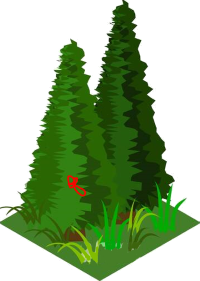
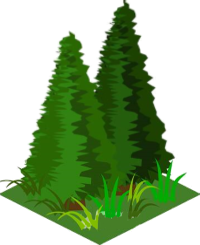
Goats poop; fertilised ground can grow saplings

diff --git a/main.py b/main.py
@@ -159,7 +159,8 @@ class Game:
         self.anim = Animator(self.animated)
 
         self.effects = {'water': WateredEffect(self, 'water', WATERED_EFFECT_P),
-                        'pollinate': PollinateEffect(self, 'pollinate', POLLINATE_EFFECT_P)}
+                        'pollinate': PollinateEffect(self, 'pollinate', POLLINATE_EFFECT_P),
+                        'fertile': FertileEffect(self, 'fertile', FERTILE_EFFECT_P)}
 
         # Set up UI now we have player etc.
         self.dialogs = {'spells': SpellDialog(100, 50, 400, 300, self.screen, self),
@@ -167,7 +168,9 @@ class Game:
 
         self.spells = {'bolt': (self.magic_missile, 0.25),
                        'well': (self.dig_dirt, 2),
-                       'hive': (self.build_hive, 3)}
+                       'hive': (self.build_hive, 3),
+                       'compost': (self.fertilise, 1),
+                       'sapling': (self.plant_tree, 2)}
 
         self.change_mode()
 
@@ -423,6 +426,10 @@ class Game:
 
         self.map.add_sprite(col, row, wall_sprite)
 
+    def add_item(self, col, row, item_type):
+        grass = Item(self, col, row, item_types[item_type])
+        self.ordered_sprites.append(grass)
+
     def sort_sprites(self):
         self.ordered_sprites.sort(key=lambda s: s.pos.x + s.pos.y + ((TILESIZE*2) if isinstance(s, Mob) or isinstance(s, Bullet) else 0))
 
@@ -466,8 +473,7 @@ class Game:
             print(f"Cut grass at {x}, {y}")
             self.killing(target_sprite)
             self.add_terrain(x, y, terrain_types[TerrainTypes.shortgrass])
-            grass = Item(self, x, y, item_types[ItemTypes.grass])
-            self.ordered_sprites.append(grass)
+            self.add_item(x, y, ItemTypes.grass)
 
     def missile_hit_mob(self, x, y):
         target_pos = vec(((x + 0.5) * TILESIZE), ((y + 0.5) * TILESIZE))
@@ -487,7 +493,7 @@ class Game:
 
 
 
-    # Spell effects
+    # Spell effects: must take tile co-ords as arguments
 
     def magic_missile(self, x, y):
         target_pos = vec((x + 0.5) * TILESIZE, (y + 0.5) * TILESIZE)
@@ -498,7 +504,7 @@ class Game:
 
     def dig_dirt(self, x, y):
         target_sprite = self.map.get_sprite_at(x, y)
-        if target_sprite.terrain_type.name == TerrainTypes.dirt:
+        if target_sprite.terrain_type.name in [TerrainTypes.dirt, TerrainTypes.shortgrass, TerrainTypes.longgrass]:
             self.killing(target_sprite)
             self.add_terrain(x, y, terrain_types[TerrainTypes.well])
             # Add effect
@@ -519,7 +525,17 @@ class Game:
             # Add effect
             self.map.add_effect_circle(x, y, POLLINATE_EFFECT_R, 'pollinate')
 
+    def fertilise(self, x, y):
+        target_sprite = self.map.get_sprite_at(x, y)
+        if target_sprite.terrain_type.name in [TerrainTypes.dirt, TerrainTypes.shortgrass, TerrainTypes.longgrass]:
+            self.map.add_effect(x, y, 'fertile')
 
+    def plant_tree(self, x, y):
+        target_sprite = self.map.get_sprite_at(x, y)
+        if target_sprite.terrain_type.name in [TerrainTypes.dirt, TerrainTypes.shortgrass, TerrainTypes.longgrass]:
+            if 'fertile' in self.map.get_effects(x, y):
+                self.killing(target_sprite)
+                self.add_terrain(x, y, terrain_types[TerrainTypes.sapling])
 
 
 

diff --git a/controlcomponent.py b/controlcomponent.py
@@ -1,5 +1,6 @@
 from settings import *
 from sprites import TerrainTypes
+from item import ItemTypes
 import pygame as py
 from random import uniform
 from map import tile_from_vec
@@ -62,24 +63,27 @@ class GrazerControlComponent(ControlComponent):
         self.hunt_radius = GOAT_VISION_DISTACE
         self.saw_food_tick = -1
         self.reached_food_tick = -1  # When did we get to the food?
+        self.poop_tick = pg.time.get_ticks()
 
 
     def get_control(self):
         now = pg.time.get_ticks()
+        cx = int(self.mob.pos.x // TILESIZE)
+        cy = int(self.mob.pos.y // TILESIZE)
 
         if self.reached_food_tick > 0 and now - self.reached_food_tick > GOAT_EAT_TIME:
             self.game.eat_grass(self.target_square.tile_x, self.target_square.tile_y)
             self.target_square = None
             self.reached_food_tick = -1
 
+        if now - self.poop_tick > GOAT_POOP_FREQ:
+            self.game.add_item(cx, cy, ItemTypes.poop)
+            self.poop_tick = now
+
         if self.target_square is None:
             if now - self.tick > GOAT_ATTENTION_SPAN:
                 self.tick = now
                 # Find a food square
-                # Look in local 9x9 square
-                cx = int(self.mob.pos.x // TILESIZE)
-                cy = int(self.mob.pos.y // TILESIZE)
-
                 # Ask the map for a list of sprites within our hunt radius
                 tiles = self.game.map.get_tile_circle(cx, cy, self.hunt_radius, 'terrain')
 

diff --git a/dialog.py b/dialog.py
@@ -104,14 +104,20 @@ class SpellDialog(Dialog):
         boltbutton = Button(30, 30, 90, 90, self.surf, 'bolticon.png')
         wellbutton = Button(130, 30, 90, 90, self.surf, 'wellicon.png')
         hivebutton = Button(230, 30, 90, 90, self.surf, 'hiveicon.png')
+        fertilisebutton = Button(330, 30, 90, 90, self.surf, 'poopItem.png')
+        planttreebutton = Button(30, 130, 90, 90, self.surf, 'saplingTile.png')
 
         boltbutton.click_callback = (lambda: self.game.set_spell('bolt'))
         wellbutton.click_callback = (lambda: self.game.set_spell('well'))
         hivebutton.click_callback = (lambda: self.game.set_spell('hive'))
+        fertilisebutton.click_callback = (lambda: self.game.set_spell('compost'))
+        planttreebutton.click_callback = (lambda: self.game.set_spell('sapling'))
 
         self.elements.append(boltbutton)
         self.elements.append(wellbutton)
         self.elements.append(hivebutton)
+        self.elements.append(fertilisebutton)
+        self.elements.append(planttreebutton)
 
         self.update()
 

diff --git a/terrain.py b/terrain.py
@@ -9,6 +9,7 @@ class TerrainTypes(Enum):
     well = 6
     flowers = 7
     hive = 8
+    sapling = 9
 
 class Terrain:
     def __init__(self, name, obstacle, imgpath, isotiles):
@@ -27,6 +28,7 @@ terrain_types = {
     TerrainTypes.shortgrass: Terrain(TerrainTypes.shortgrass, False, 'grassTile.png', ['isoshortgrassTile.png']),
     TerrainTypes.longgrass: Terrain(TerrainTypes.longgrass, False, 'grassTile.png', ['isolonggrassTile.png']),
     TerrainTypes.flowers: Terrain(TerrainTypes.flowers, False, 'grassTile.png', ['isoflowersTile.png']),
+    TerrainTypes.sapling: Terrain(TerrainTypes.sapling, True, 'saplingTile.png', ['isosaplingTile.png']),
     TerrainTypes.tree: Terrain(TerrainTypes.tree, True, 'treeTile.png', ['isotreeTile1.png', 'isotreeTile2.png', 'isotreeTile1.png']),
     TerrainTypes.wall: Terrain(TerrainTypes.wall, True, 'wallTile.png', ['isowallTile.png']),
     TerrainTypes.well: Terrain(TerrainTypes.well, True, 'wellTile.png', ['isowellTile.png']),

diff --git a/effect.py b/effect.py
@@ -25,6 +25,7 @@ class WateredEffect(Effect):
                 self.game.killing(sprite)
                 self.game.add_terrain(square[0], square[1], terrain_types[TerrainTypes.longgrass])
 
+
 class PollinateEffect(Effect):
     def __init__(self, game, name, p):
         super().__init__(game, name, p)
@@ -33,3 +34,13 @@ class PollinateEffect(Effect):
     def do_thing(self, square, sprite):
         self.game.killing(sprite)
         self.game.add_terrain(square[0], square[1], terrain_types[TerrainTypes.flowers])
+
+
+class FertileEffect(Effect):
+    def __init__(self, game, name, p):
+        super().__init__(game, name, p)
+        self.affected_types = [TerrainTypes.sapling]
+
+    def do_thing(self, square, sprite):
+        self.game.killing(sprite)
+        self.game.add_terrain(square[0], square[1], terrain_types[TerrainTypes.tree])

diff --git a/item.py b/item.py
@@ -3,6 +3,7 @@ from enum import Enum
 class ItemTypes(Enum):
     grass = 1
     pie = 2
+    poop = 3
 
 class Item:
     def __init__(self, type, image_path):
@@ -11,7 +12,8 @@ class Item:
 
 item_types = {
     ItemTypes.grass: Item(ItemTypes.grass, 'grassItem.png'),
-    ItemTypes.pie: Item(ItemTypes.pie, 'pieItem.png')
+    ItemTypes.pie: Item(ItemTypes.pie, 'pieItem.png'),
+    ItemTypes.poop: Item(ItemTypes.poop, 'poopItem.png')
 }
 
 

diff --git a/settings.py b/settings.py
@@ -55,10 +55,12 @@ WATERED_EFFECT_R = 4
 WATERED_EFFECT_P = 0.1
 POLLINATE_EFFECT_R = 4
 POLLINATE_EFFECT_P = 0.05
+FERTILE_EFFECT_P = 0.05
 
 GOAT_EAT_TIME = 10000
 GOAT_ATTENTION_SPAN = 3000
 GOAT_TENACITY = 15000
 GOAT_VISION_DISTACE = 9
+GOAT_POOP_FREQ = 30000
 
-ITEM_BOB_AMOUNT = 5
+ITEM_BOB_AMOUNT = 3

diff --git a/map.py b/map.py
@@ -81,6 +81,9 @@ class Map:
         else:
             self.effects[y][x] = [effect_name]
 
+    def get_effects(self, x, y):
+        return self.effects[y][x]
+
 
 class Camera:
     def __init__(self, width, height, iso):
